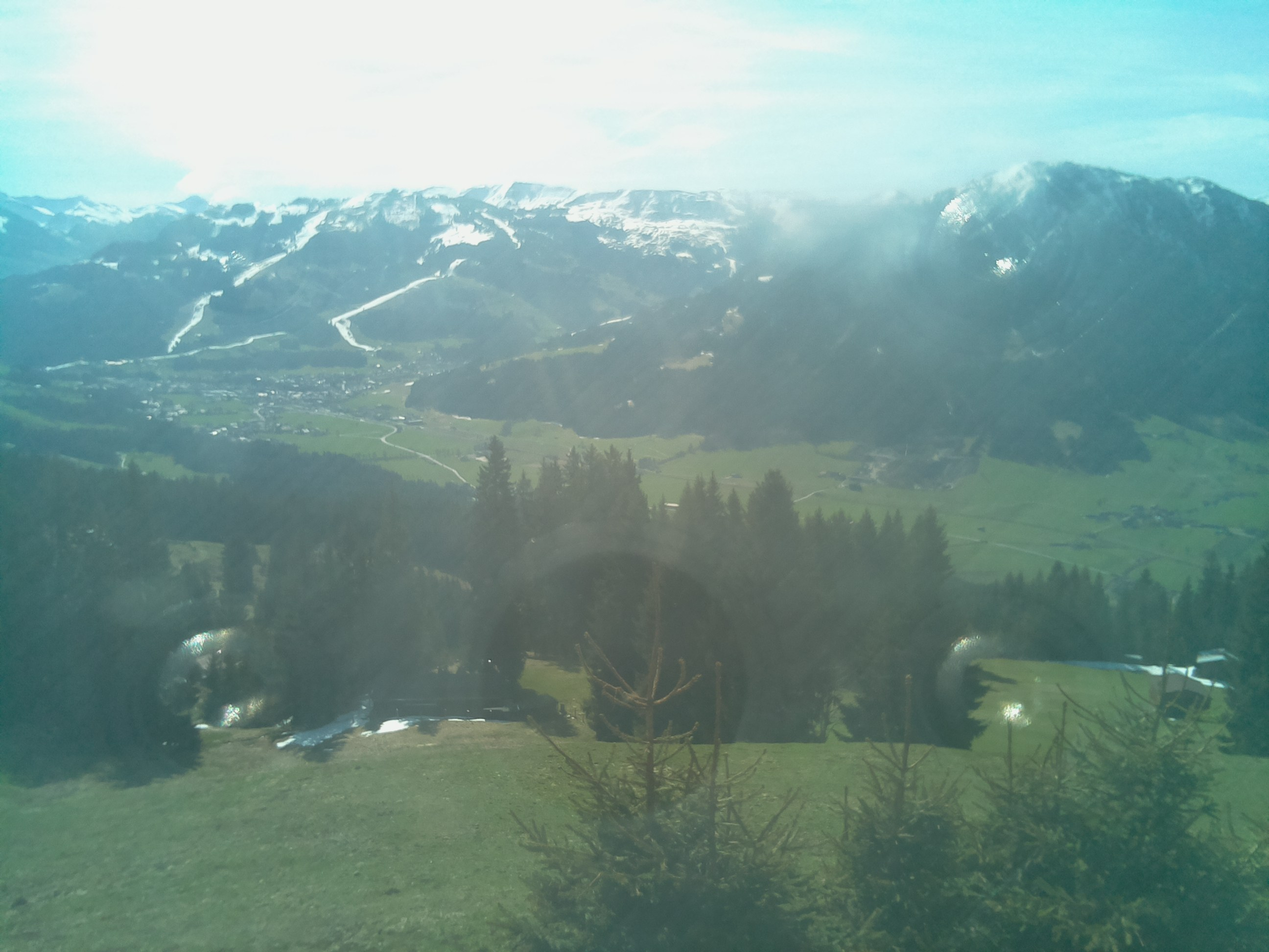
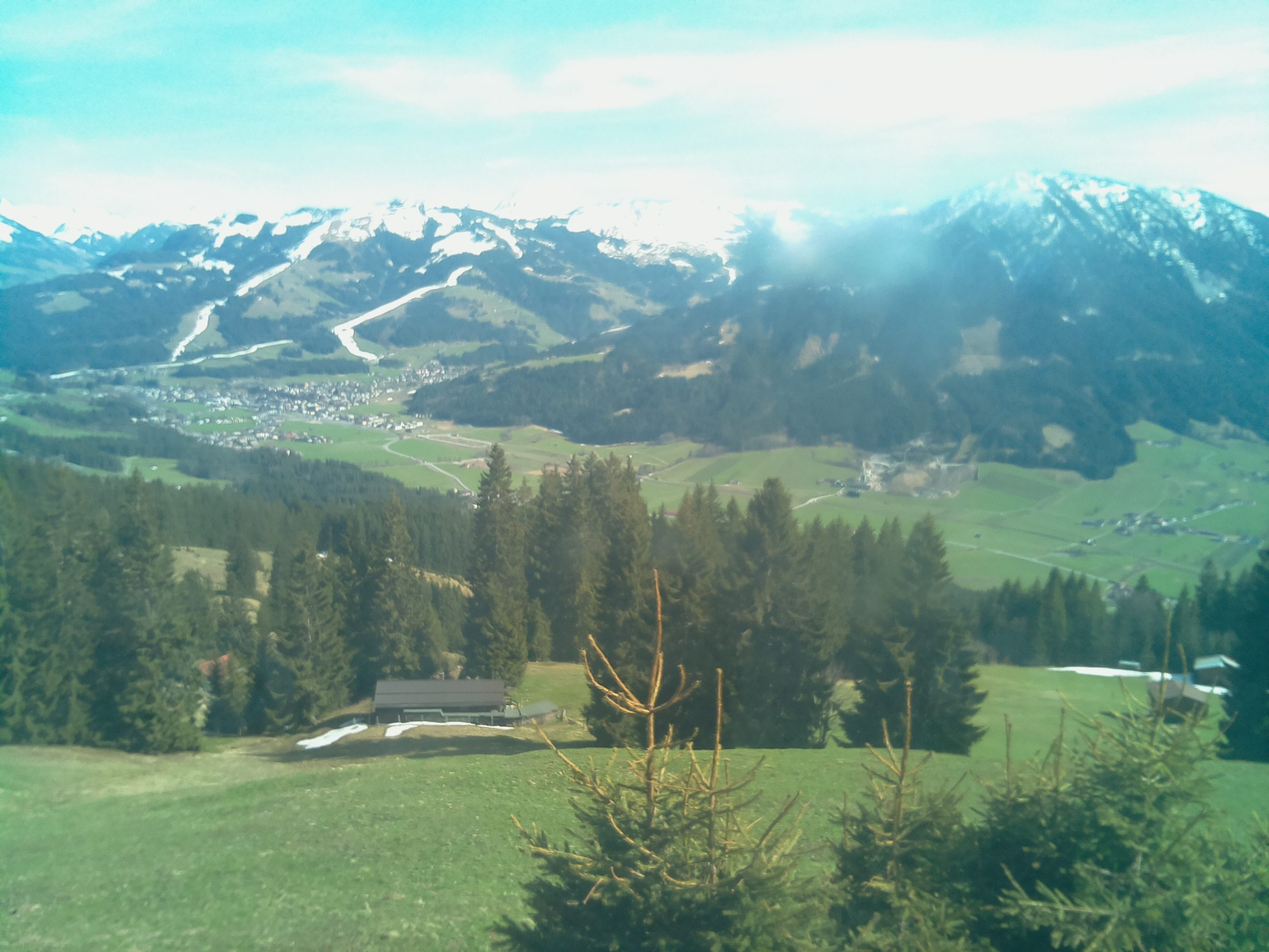
I'm a bot beep boop

diff --git a/resources/huette.md b/resources/huette.md
@@ -6,13 +6,13 @@ image: '/assets/img/'
 description: 'Live image from the Austrian alps'
 twitter_text: ' '
 ---
-## Latest image from 12 April 2022 at 10:11
+## Latest image from 12 April 2022 at 16:11
 <div class="huette">
   <div class="huette-image">
     <img src="{{ "/assets/img/huette.jpg" | prepend: site.baseurl }}">
   </div>
   <div class="huette-text">
-        <h2>Current Temperature: 14.875°C</h2>
+        <h2>Current Temperature: 16.625°C</h2>
         <p>A solar powered raspberry pi left alone in the wild is sending daily images and temperature data to this website. It should give you an impression about the current weather in the "Brixental".</p>
 
   </div>

diff --git a/rpi-script/huette.md b/rpi-script/huette.md
@@ -6,13 +6,13 @@ image: '/assets/img/'
 description: 'Live image from the Austrian alps'
 twitter_text: ' '
 ---
-## Latest image from 12 April 2022 at 10:11
+## Latest image from 12 April 2022 at 16:11
 <div class="huette">
   <div class="huette-image">
     <img src="{{ "/assets/img/huette.jpg" | prepend: site.baseurl }}">
   </div>
   <div class="huette-text">
-        <h2>Current Temperature: 14.875°C</h2>
+        <h2>Current Temperature: 16.625°C</h2>
         <p>A solar powered raspberry pi left alone in the wild is sending daily images and temperature data to this website. It should give you an impression about the current weather in the "Brixental".</p>
 
   </div>
